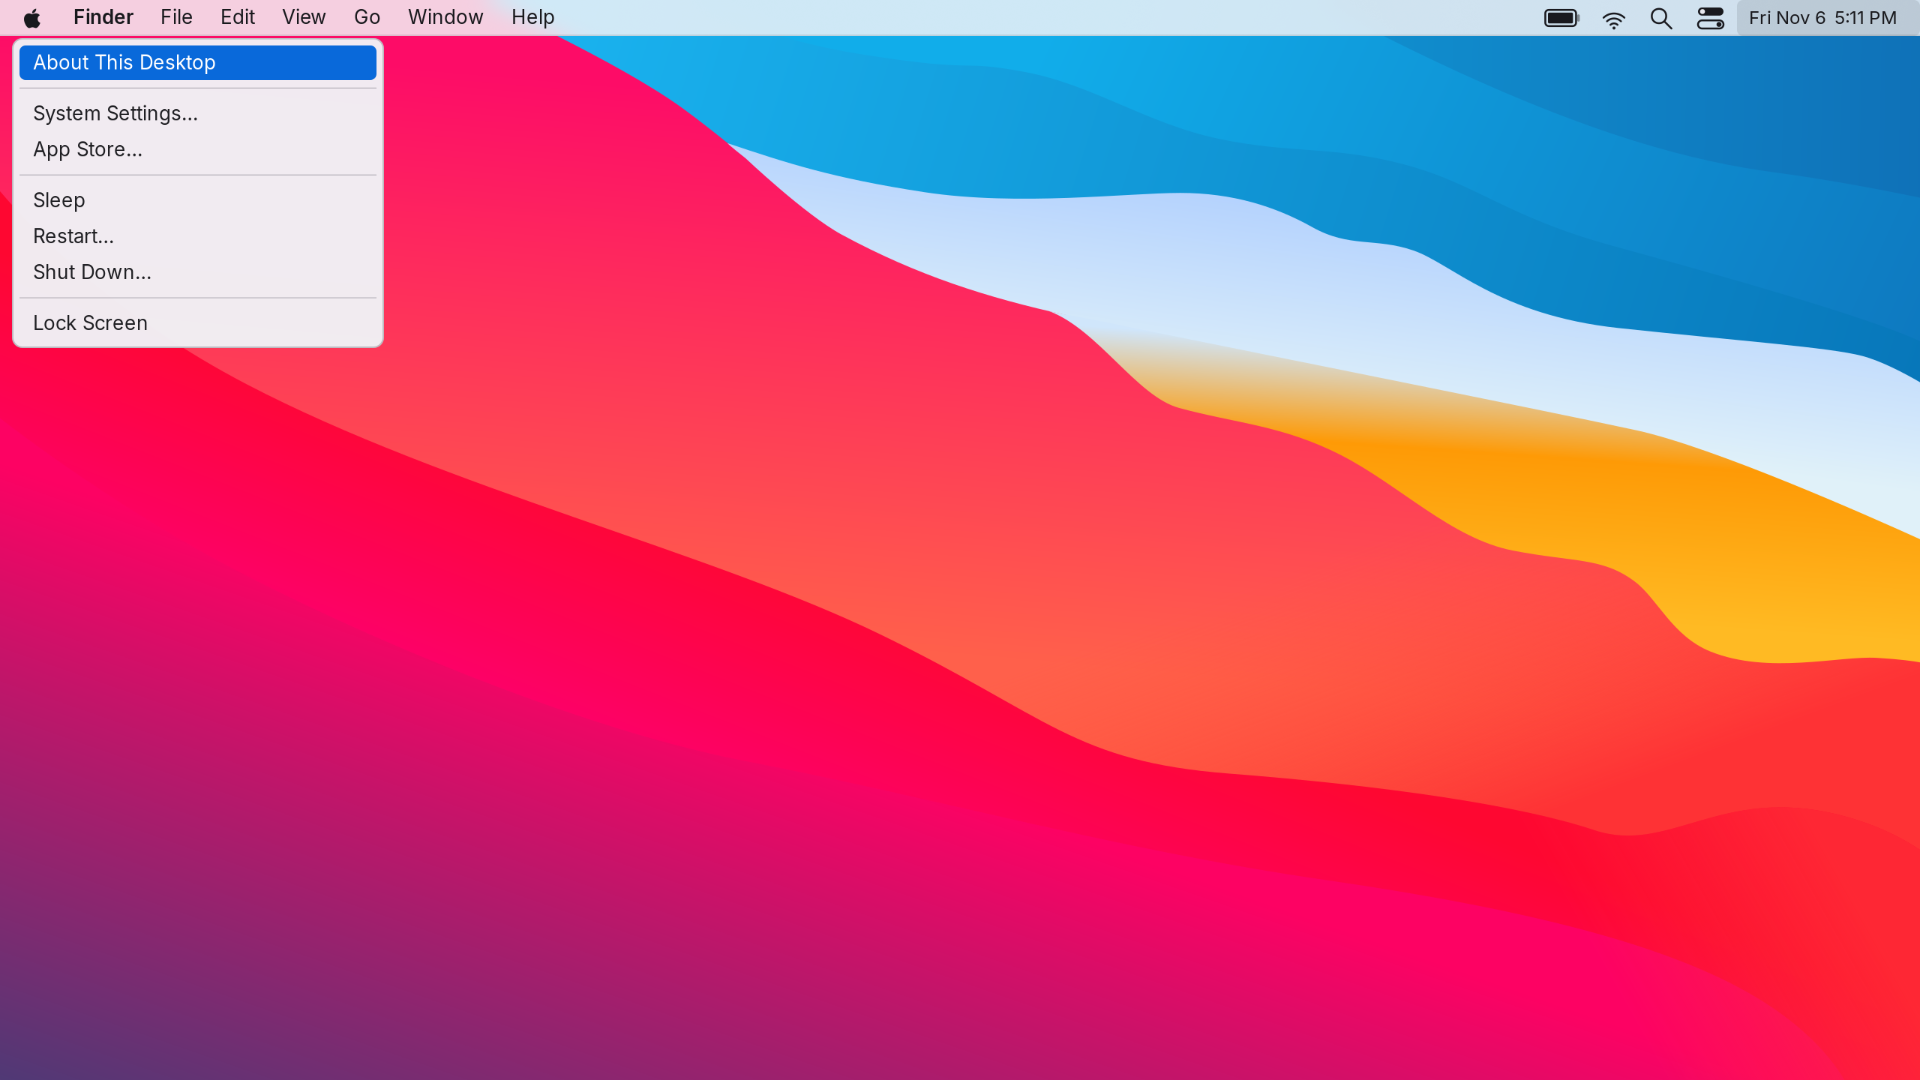
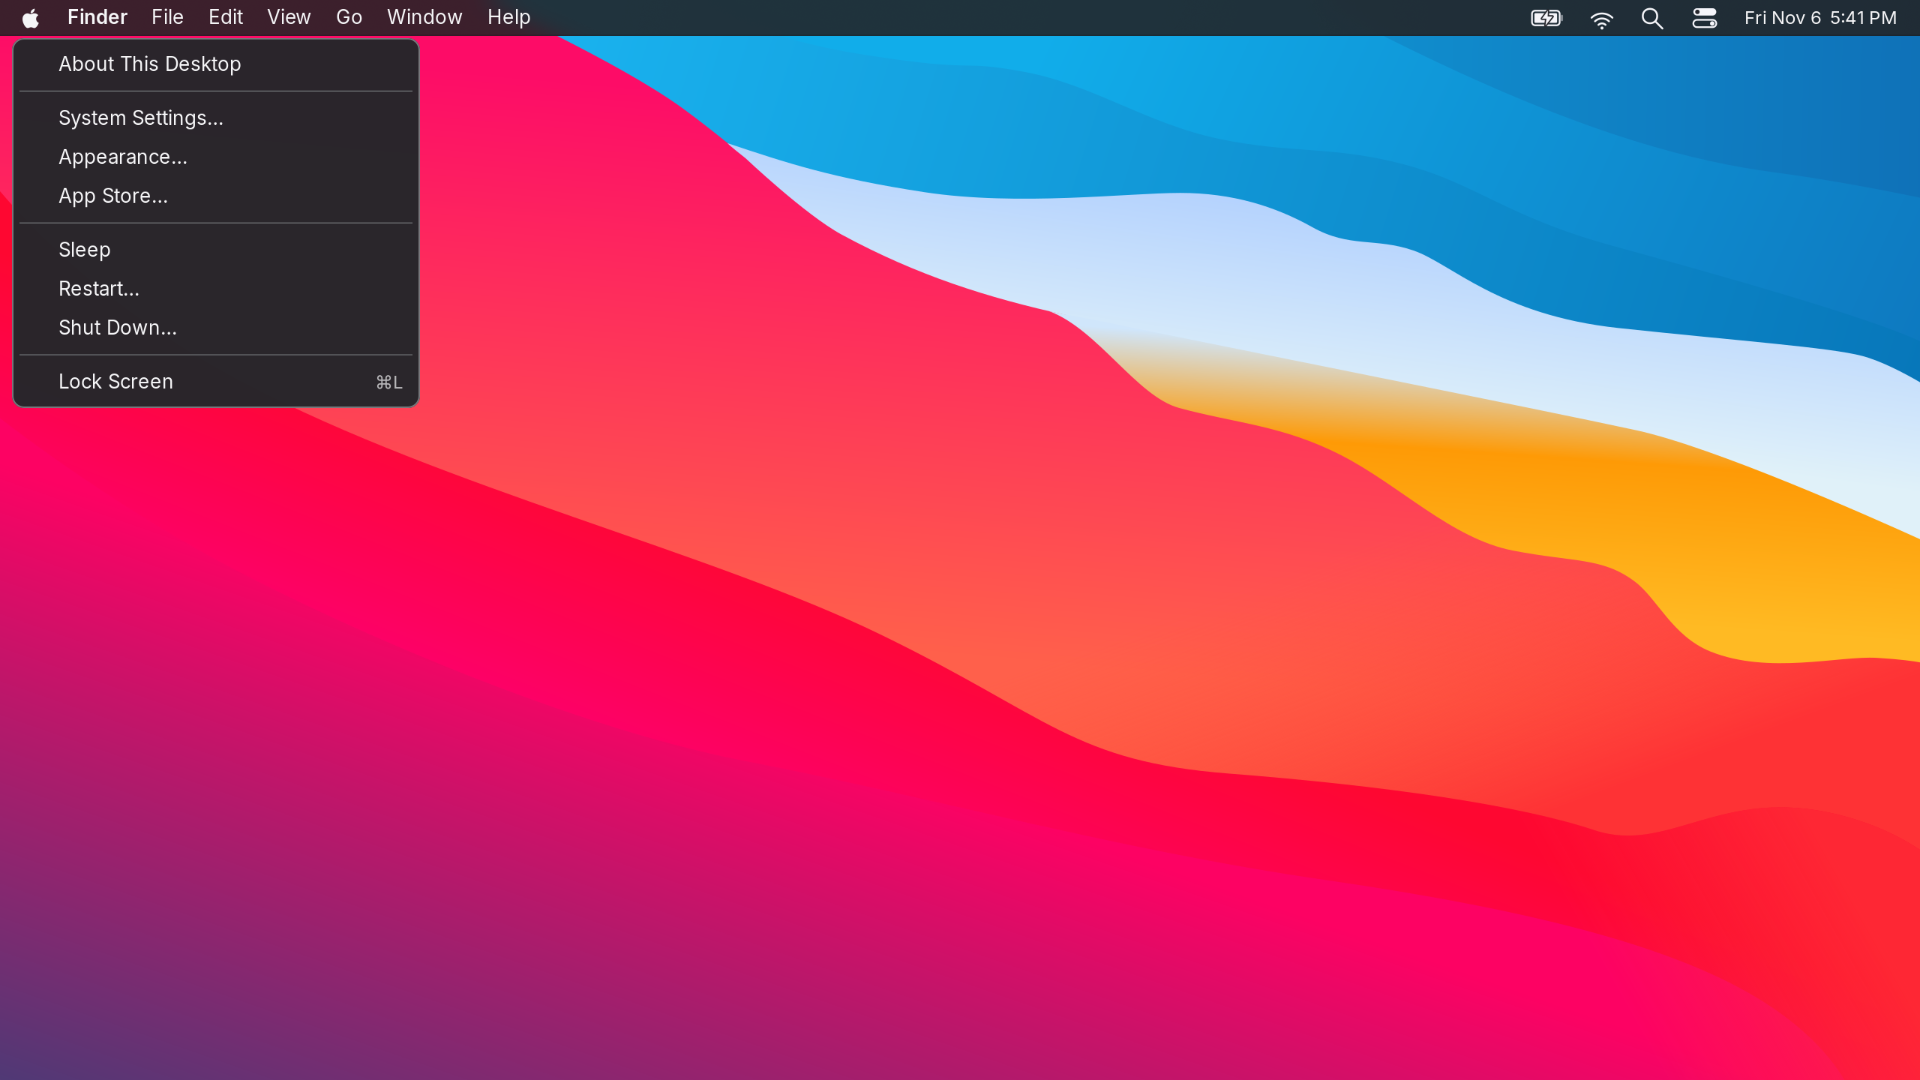
Refine menu rows, keyboard navigation and connection dropdown

Changed region(s): [[0.0, 0.0, 1.0, 0.3972]]

diff --git a/docs/REFERENCE.md b/docs/REFERENCE.md
@@ -120,3 +120,5 @@ Use Apple menu → Appearance or Control Center → Appearance. `macos-appearanc
 The active menu is highlighted. Click it again to close; while a menu is open, move across the left-hand menu titles to switch. Only one bar-owned popup is kept open. Terminal uses Shell and Finder exposes Go; other apps retain File/Edit/View shortcuts. Click the date for the calendar. Popups fit their actual width inside the display bounds, and long app names are ellipsized.
 
 Popups use a transparent outside-click surface below the menu. Clicking outside dismisses the popup; its input region excludes the menu bar so toggling and switching remain available. `python scripts/test-popup-desktop.py` runs an optional live-session pointer-dismiss regression check (requires installed desktop helpers).
+
+Menu rows align selection marks and shortcut hints. Up/Down and Home/End navigate the popup; Enter activates the focused item and Escape dismisses it. The network icon now opens a connection-status menu instead of immediately launching a terminal.
